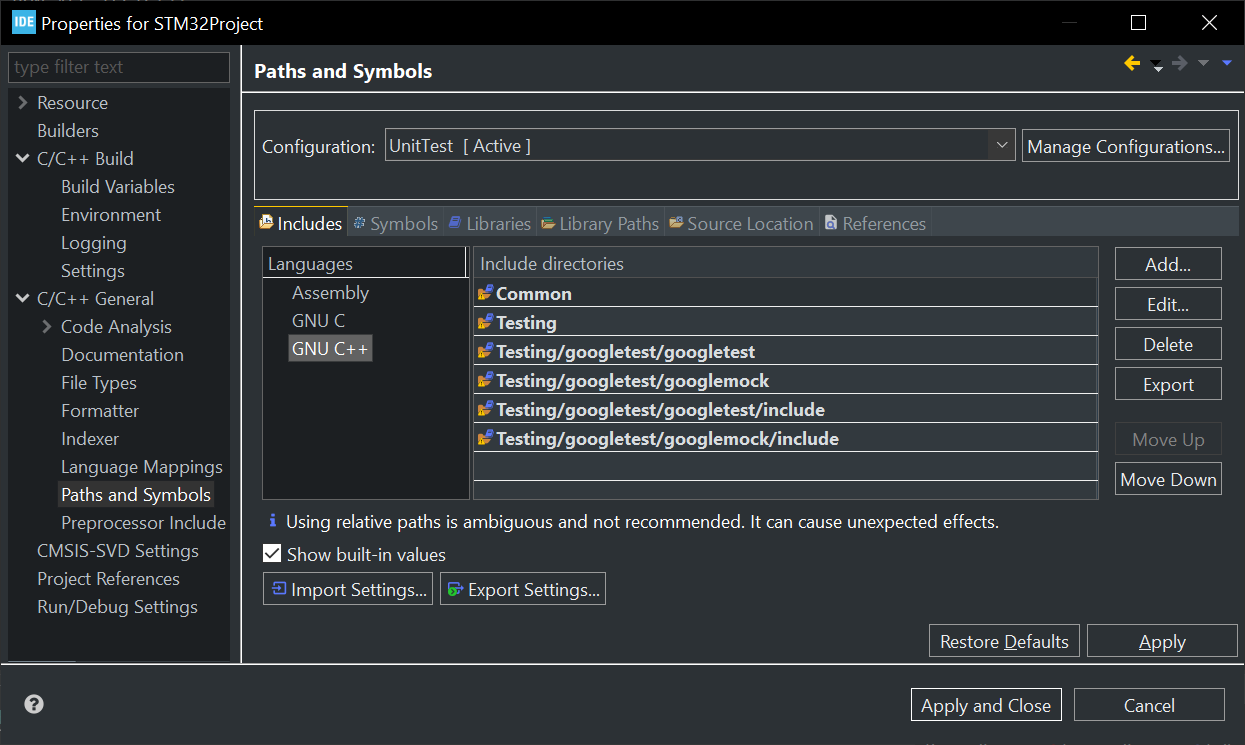
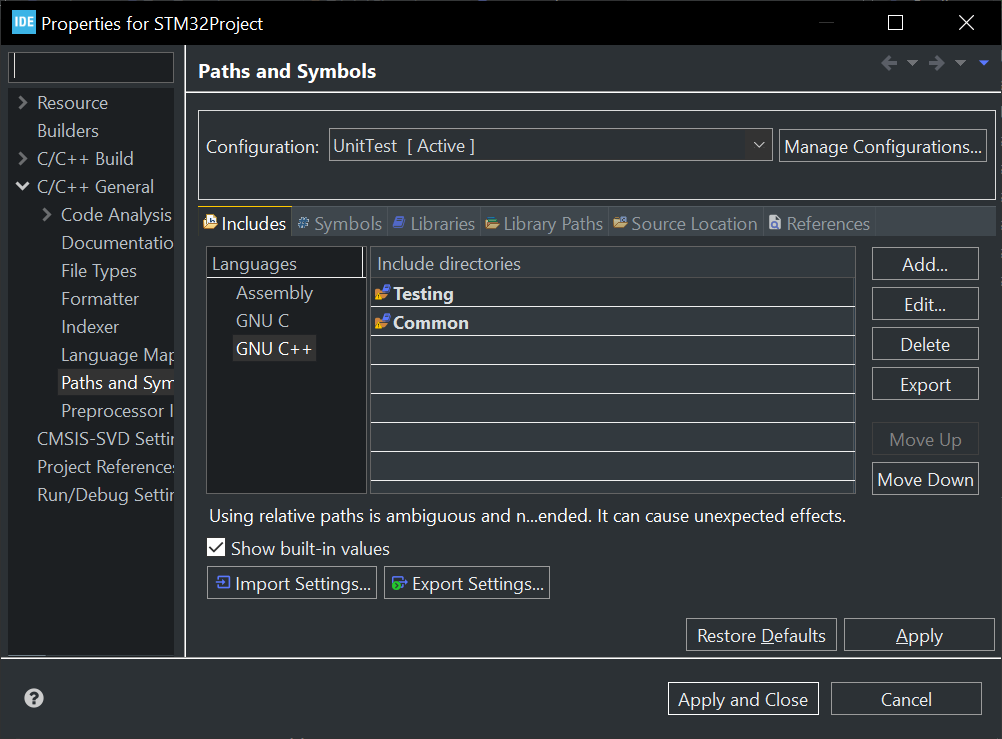
Update article to use MSYS's package manager to download gtest, and use MinGW instead of the MSYS compiler

diff --git a/_posts/2022-07-31-unit-testing-with-stm32cubeide.md b/_posts/2022-07-31-unit-testing-with-stm32cubeide.md
@@ -16,7 +16,7 @@ In this tutorial we'll learn about how to make native unit testing easy for your
 
 - Learn the benefits of native machine unit testing for embedded systems
 - Install a native C/C++ compiler on your development machine
-- Download and integrate the GoogleTest framework into your project structure
+- Download and integrate the GoogleTest library
 - Add a build configuration to execute unit tests on loosely coupled code in your STM32 project
 - Build and run our first unit tests
 - Learn to enhance your testing experience with plugins and keyboard shortcuts.
@@ -35,25 +35,21 @@ The final benefit - it's **fun**. It's extremely satisfying to design code that 
 
 ## Guide To Setting Up Native Unit Testing With STM32CubeIDE
 
-This guide assumes you are working on Windows, and have STM32CubeIDE installed. If not, you can download it from ST's website at [https://www.st.com/en/development-tools/stm32cubeide.html](https://www.st.com/en/development-tools/stm32cubeide.html){:target="_blank"}. Although optional, [Git for Windows](https://git-scm.com/download/win){:target="_blank"} should be installed if you wish to clone or submodule the GoogleTest repository rather than downloading the zip from GitHub.
+This guide assumes you are working on Windows, and have STM32CubeIDE installed. If not, you can download it from ST's website at [https://www.st.com/en/development-tools/stm32cubeide.html](https://www.st.com/en/development-tools/stm32cubeide.html).
 
 ### Setting Up The Local Compiler
 
-The easiest way to add a local unit testing configuration to an STM32 project is to create a separate local C/C++ project and use it as a template when creating a build configuration in the STM32 project. We'll need a native C/C++ compiler installed. If you already have a *POSIX compatible* native C/C++ development environment installed, you can skip this section.
+The easiest way to add a local unit testing configuration to an STM32 project is to create a native C/C++ project and use it as a template to create a build configuration in the STM32 project. We will use MSYS2's package manager to download and install the MinGW64 C/C++ toolchain and GoogleTest libraries. If you already have a native C/C++ development environment installed, you can skip this section and download the GoogleTest library manually from your native toolchain's repository.
 
-Download MSYS2 from [https://www.msys2.org/](https://www.msys2.org/){:target="_blank"}. MSYS2 is a fork of Cygwin, and is used specifically over MinGW because it has a POSIX-compatible environment. This is important because GoogleTest uses the POSIX threading model, and won't compile properly with a standard installation of MinGW.
+Download and install MSYS2 from [https://www.msys2.org/](https://www.msys2.org/). When installed run the MSYS2 shell (if it doesn't open after installation, you can find it by searching "MSYS2 MSYS" in the Start Menu). Run the command `pacman -Syu` , which will start the first of two stages required to bring the package manager up to date. Allow the package manager to install the packages. Between stages, the terminal window will prompt you to close and manually reopen the terminal by clicking on the MSYS2 MSYS start menu or desktop icon. Complete the setup by running `pacman -Syu` a second time and accepting the package download when prompted.
 
-Install MSYS2, and run the MSYS2 shell (if it doesn't open after installation, you can find it by searching "MSYS2 MSYS" in the Start Menu). Run `pacman -Syu` , which will start the first of two stages required to bring the package manager up to date. Allow the package manager to install the packages. Between stages, the terminal window will prompt you to close and manually reopen the terminal by clicking on the MSYS2 MSYS start menu or desktop icon. Complete the setup by running `pacman -Syu` again and accepting the package download when prompted.
-
-Once MSYS2 is fully updated, you can begin installing the required development packages. Run `pacman -S base-devel gcc gdb` to install basic unix-like commands, the gcc compiler, and the gdb debugger. Other packages and libraries you want can be installed later and will be made automatically available to the compiler.
-
-Assuming you used the default installation path from the MSYS2 installer, add `C:\msys64\usr\bin` to your PATH. Do this by searching for "environment variable" in the Start Menu, clicking the entry that says "Edit The System Environment Variables", and then in the dialog click Environment Variables. Click New or Browse, add the path, and click OK out of all windows. 
+Once MSYS2 is fully updated, you can begin installing the required development packages. Run `pacman -S base-devel mingw-w64-x86_64-toolchain mingw-w64-x86_64-gtest` to install basic unix-like commands, the MinGW compiler and the GoogleTest libraries. Other packages and libraries you want can be installed later and will be made automatically available to the compiler.
 
 ### Creating the Donor Project
 
 Open STM32CubeIDE into a new or existing workspace.
 
-From File→New→C/C++ Project, create a new C++ Managed Build project. On the next page, name it TestTemplate, select the Hello World C++ project type and use the Cygwin GCC toolchain. The hello world project will let us make sure that our compiler is working, and the Cygwin GCC toolchain is actually the one we just installed with MSYS2 (MSYS2 is a fork of Cygwin).
+From File→New→C/C++ Project, create a new C++ Managed Build project. On the next page, name it TestTemplate, select the Hello World C++ project type and use the MinGW GCC toolchain. The hello world project will let us make sure that our compiler is working;
 
 {% include imgwcaption.html 
 imgurl="/assets/img/posts/2022-07-31-unit-testing-with-stm32cubeide/ProjectCreateB.png" 
@@ -63,24 +59,16 @@ Once created, verify that the project builds properly by right clicking the proj
 
 {% highlight plaintext %}
 {% raw %}
-23:11:29 **** Build of configuration Debug for project TestTemplate ****
-make all 
-Building file: ../src/TestTemplate.cpp
-Invoking: Cygwin C++ Compiler
-g++ -O0 -g3 -Wall -c -fmessage-length=0 -MMD -MP -MF"src/TestTemplate.d" -MT"src/TestTemplate.o" -o "src/TestTemplate.o" "../src/TestTemplate.cpp"
-Finished building: ../src/TestTemplate.cpp
- 
-Building target: TestTemplate.exe
-Invoking: Cygwin C++ Linker
-g++  -o "TestTemplate.exe" ./src/TestTemplate.o   
-Finished building target: TestTemplate.exe
- 
+21:07:39 **** Rebuild of configuration Debug for project TestTemplate ****
+Info: Internal Builder is used for build
+g++ -O0 -g3 -Wall -c -fmessage-length=0 -o "src\\TestTemplate.o" "..\\src\\TestTemplate.cpp" 
+g++ -o TestTemplate.exe "src\\TestTemplate.o" 
 
-23:11:30 Build Finished. 0 errors, 0 warnings. (took 1s.302ms)
+21:07:41 Build Finished. 0 errors, 0 warnings. (took 1s.647ms)
 {% endraw %}
 {% endhighlight %}
 
-Finally, right click the project again and click Run As → Local C++ project.
+Finally, click the dropdown next to the run icon in the menu bar and click the local C++ executable option.
 
 {% highlight plaintext %}
 {% raw %}
@@ -92,15 +80,9 @@ We are now ready to use this project as a template to build local C++ unit tests
 
 ### Integrating the Test Configuration From the Donor Project
 
-Create or import an STM32 Project you would like to write unit tests for. In the filesystem root (in Explorer, not STM32CubeIDE), create two folders - one called Common and another called Testing. The Common folder is where your unit testable (i.e. modular, loose-coupled, and cross platform) code will live, and the Testing folder is where the GoogleTest code and your unit tests will live. In STM32CubeIDE refresh the project so that the new folders appear - if they still don't appear after a refresh, you may have to drag them from explorer into the project hierarchy and link them manually.
+Create or import an STM32 Project you would like to write unit tests for. In the filesystem root (in Explorer, not STM32CubeIDE), create two folders - one called Common and another called Testing. The Common folder is for unit testable (i.e. modular, loose-coupled, and cross platform) code and the Testing folder for the unit tests, doubles and mock objects. In STM32CubeIDE refresh the project so that the new folders appear - if they still don't appear after a refresh, you may have to drag them from explorer into the project hierarchy and link them manually (this is the case with most TouchGFX application template projects).
 
-We'll now install GoogleTest from [its GitHub repository](https://github.com/google/googletest){:target="_blank"}. There are a few ways we can do this:
-
-- Download the zip file and extract it into the Testing folder (rename the googletest-main folder to googletest for consistency in the rest of the article)
-- If you have git, clone the repository by running `cd <your project dir>/Testing` in a terminal and then `git clone https://github.com/google/googletest.git`.
-- Create a git submodule by running `cd <your project dir>/Testing` in a terminal and then `git submodule add https://github.com/google/googletest.git`. This is useful when your project is already tracked with Git because you can keep GoogleTest updated easily without large changes in your project repository.
-
-Back in STM32CubeIDE, double check that the STM32 project and the TestTemplate project **are both in the same workspace**. Then right click the STM32 project in the Project Explorer and then click Build Configurations → Manage... → New. 
+Double check that the STM32 project and the TestTemplate project **are both in the same workspace**. Right click the STM32 project in the Project Explorer and then click Build Configurations → Manage... → New. 
 
 Create a new configuration with the name UnitTest, and in the "Copy settings from" section, select "Import from projects" then select the **debug** configuration of the TestTemplate project (this way  the unit tests will have maximum debugging and no optimizations by default). 
 
@@ -108,36 +90,29 @@ Create a new configuration with the name UnitTest, and in the "Copy settings fro
 imgurl="/assets/img/posts/2022-07-31-unit-testing-with-stm32cubeide/NewConfiguration.png" 
 %}
 
-Click OK. Back in the Manage Configurations Window, select the new UnitTest configuration and click Set Active.
+Click OK. Back in the Manage Configurations Window, select the new UnitTest configuration and click Set Active, then click OK.
 
 ### Setting Up The Unit Test Configuration
 
-Right click the STM32 project and click Properties, then in the sidebar select C/C++ General → Paths and Symbols. Ensure that the UnitTests configuration is selected at the top of the dialog box. In the Includes tab, click Add, and then add the following include paths to all languages (but not all configurations).
-
-{% highlight plaintext %}
-{% raw %}
-Common
-Testing
-Testing/googletest/googletest
-Testing/googletest/googletest/include
-Testing/googletest/googlemock
-Testing/googletest/googlemock/include
-{% endraw %}
-{% endhighlight %}
+Right click the STM32 project and click Properties, then in the sidebar select C/C++ General → Paths and Symbols. Ensure that the UnitTests configuration is selected at the top of the dialog box. In the Includes tab, click Add, and then add include paths for `Common` (apply to all languages and all configurations) and `Testing` (apply to all languages only).
 
 {% include imgwcaption.html 
 imgurl="/assets/img/posts/2022-07-31-unit-testing-with-stm32cubeide/IncludeTab.png" 
 %}
 
-In the Source Location tab, remove the <STM32ProjectName>/src filter, and add a filter for Common, Testing/tests/, Testing/googletest/googletest/src, and Testing/googletest/googlemock/src. 
+In the Libraries tab, add entries for `gtest` and `gmock`.
+
+{% include imgwcaption.html 
+imgurl="/assets/img/posts/2022-07-31-unit-testing-with-stm32cubeide/LibraryTab.png" 
+%}
+
+In the Source Location tab, remove the (STM32ProjectName)/src filter, and add a filter for the `Common` and `Testing` folders.
 
 {% include imgwcaption.html 
 imgurl="/assets/img/posts/2022-07-31-unit-testing-with-stm32cubeide/SourceFilter.png" 
 %}
 
 Click OK to close the windows. 
-
-In the Project Explorer, expand the source filters for googletest and googlemock, and select all the files except for any .h files, gmock-all.cc, and gtest-all.cc. Right-click them, select Resource Configuration→Exclude From Build. In the dialog, check the box to exclude the files from each configuration, and then click OK.
 
 ### Building And Running Tests
 
@@ -154,11 +129,11 @@ public:
 {% endraw %}
 {% endhighlight %}
 
-In the Testings/tests/ folder create a file called test_main.cpp, and copy the code below. The main method sets up the GoogleTest framework, and runs a trivial passing and failing test.
+In the Testings/ folder create a file called test_main.cpp, and copy the code below. The main method sets up the GoogleTest framework, and runs a trivial passing and failing test.
 
 {% highlight cpp linenos %}
 {% raw %}
-/* Testing/tests/test_main.cpp */
+/* Testing/test_main.cpp */
 #include "gtest/gtest.h"
 #include "TrivialClass.hpp"
 
@@ -215,11 +190,17 @@ Expected: true
 {% endraw %}
 {% endhighlight %}
 
-Because we deliberately wrote a failing test, this is the output we expect. Congratulations, you're ready to begin unit testing or test driving your code right in STM32CubeIDE!
+Because we deliberately wrote a passing test and a failing test, this is the output we expect. 
+
+If you'd like, you can try running the program using the debugger by clicking the dropdown beside the debugger icon in the menu bar and selecting the UnitTest executable.
+
+Congratulations, you're ready to begin unit testing or test driving your code right in STM32CubeIDE!
 
 ### Cleaning Up and Next Steps
 
-The last thing we need to do is ensure that we include our Common folder and exclude our testing directory when we are building for the STM32 target. Switch back to the Debug configuration, then open the project properties and navigate to C/C++ General → Paths and Sources. Verify that the Testing directory isn't on the list, but that Common, Drivers, Middleware, and any other target-specific folders are on the list. In the Includes tab add the Common folder. Repeat the same for the Release configuration. 
+The last thing we need to do is ensure that we include our Common folder and exclude our testing directory when we are building for the STM32 target. Switch back to the Debug configuration, then open the project properties and navigate to C/C++ General → Paths and Sources. Select the Debug configuration. In the Source Filter tab, verify that the `Testing` directory isn't on the list, but that `Common`, `Drivers`, `Middleware`, and any other target-specific folders are. In the Includes tab make sure that the `Common` folder is appended to the end of the existing list, but that `Testing` is not. Finally, the `gtest` and `gmock` entries should not be in the Libraries tab. Repeat these instructions for the Release configuration.
+
+You can remove or close the TestTemplate project at any time if you wish.
 
 As you begin writing loosely coupled and unit-tested code, place the source and header files in the Common folder where it is accessible to, and compiles nicely for both the unit tests and the target system. 
 
